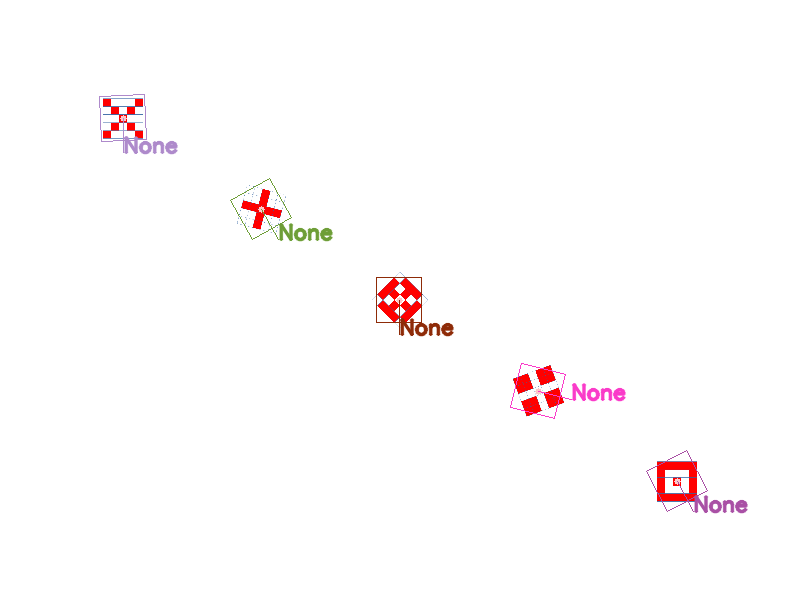
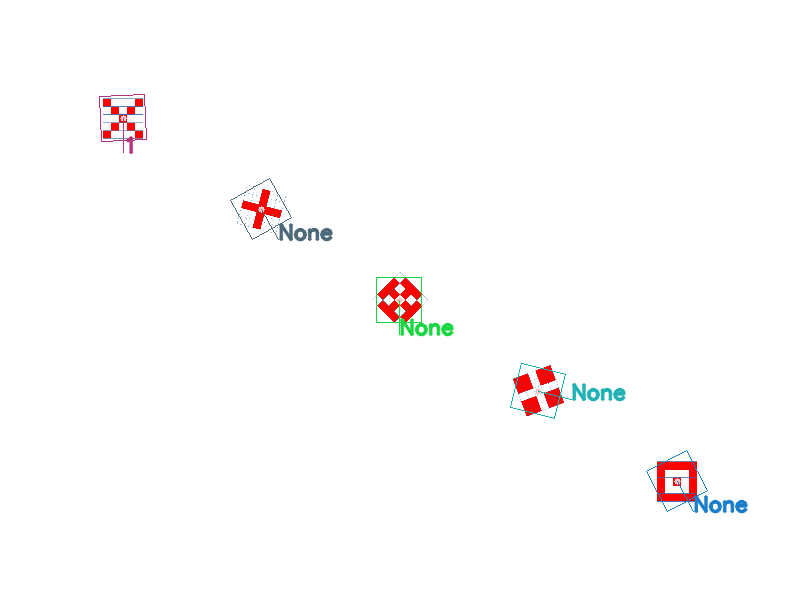
Identify is now close matche, rather than exact match

diff --git a/Vision code 22/identify_marker.py b/Vision code 22/identify_marker.py
@@ -8,7 +8,6 @@ import numpy as np
 TODO: 
     - Change looping tile method. Perhaps only locally in the middle of each tile, rather than all of it.
     - Robustness!
-    - Find closest match, rather than exact match
 '''
 
 
@@ -73,8 +72,9 @@ def identify_marker(img_marker, grid_size, scale_factor, debug=False):
     markerID = None
     patterns = marker_patterns()
     for ID, pattern in enumerate(patterns):
-        isEqual = np.array_equal(marker_values, pattern)
-        if isEqual:
+        # isEqual = np.array_equal(marker_values, pattern)
+        isEqual = np.sum(marker_values == pattern)
+        if isEqual > 20:
             markerID = ID + 1
             
             
